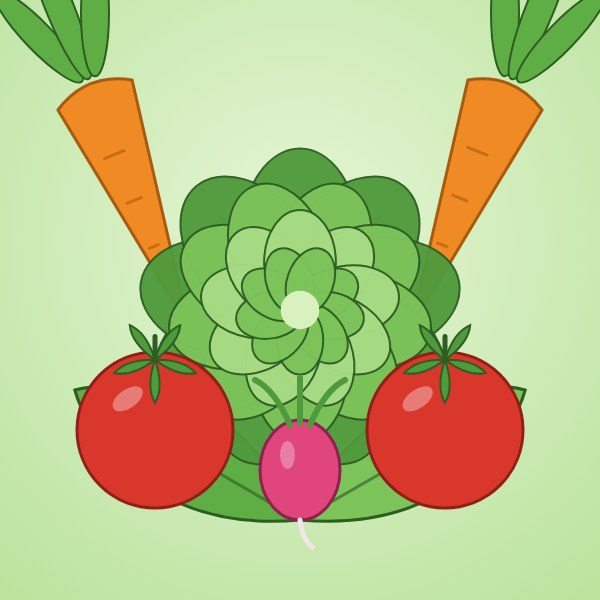
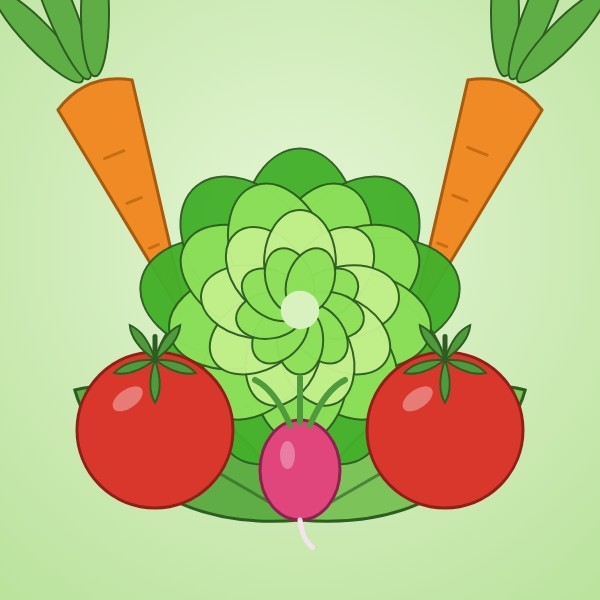
Olericultura: cores mais alegres e imagens novas
Claude-Session: https://claude.ai/code/session_013WiFmUDbDBMEuswrCBuu2Y

Changed region(s): [[0.24, 0.3, 0.72, 0.75], [0.57, 0.75, 0.6, 0.78]]

diff --git a/app/templates/index.html b/app/templates/index.html
@@ -11,8 +11,8 @@
 <script src="https://cdn.jsdelivr.net/npm/xlsx@0.18.5/dist/xlsx.full.min.js"></script>
 <style>
   :root{
-    --bg:#f1f8ec; --surf:#ffffff; --ink:#1d2b19; --mut:#5d7056; --linha:#dae8d0; --suave:#f6fbf2;
-    --verde:#4f9a3c; --verde-esc:#2e5d22; --pos:#2e7d4f; --neg:#b3261e;
+    --bg:#f2fae6; --surf:#ffffff; --ink:#1d2b19; --mut:#5d7056; --linha:#dae8d0; --suave:#f6fbf2;
+    --verde:#3fae2a; --verde-esc:#237a1c; --pos:#2e7d4f; --neg:#b3261e;
     --c-receita:#1b7f5c; --c-venda:#2b59a8; --c-prod:#7a5ba6; --c-media:#0b7a80; --c-mat:#c9730a; --c-mvenda:#a23b72; --c-neutro:#5d7056; --c-desp:#c0392b;
   }
   *{box-sizing:border-box}
@@ -20,8 +20,8 @@
   body{margin:0;font:15px/1.45 'IBM Plex Sans',system-ui,Segoe UI,Arial,sans-serif;background:var(--bg);color:var(--ink);font-variant-numeric:tabular-nums}
   :focus-visible{outline:3px solid #f0b429;outline-offset:2px;border-radius:6px}
 
-  .faixa{position:relative;overflow:hidden;background:linear-gradient(90deg,var(--verde-esc),var(--verde));color:#fff;padding:16px 30px;display:flex;align-items:center;gap:18px;min-height:96px}
-  .faixa::before{content:"";opacity:.75;position:absolute;top:0;right:0;bottom:0;width:60%;-webkit-mask-image:linear-gradient(90deg,transparent,#000 30%);mask-image:linear-gradient(90deg,transparent,#000 30%);background:url(/img/banner_oleri.jpg) no-repeat right center/auto 100%}
+  .faixa{position:relative;overflow:hidden;background:linear-gradient(90deg,#14802c,#34a82c 45%,#76cf3a);color:#fff;padding:16px 30px;display:flex;align-items:center;gap:18px;min-height:96px}
+  .faixa::before{content:"";opacity:1;position:absolute;top:0;right:0;bottom:0;width:60%;-webkit-mask-image:linear-gradient(90deg,transparent,#000 30%);mask-image:linear-gradient(90deg,transparent,#000 30%);background:url(/img/banner_oleri.jpg) no-repeat right center/auto 100%}
   .faixa::after{content:"";position:absolute;top:0;right:0;bottom:0;width:30%;background:linear-gradient(270deg,rgba(46,93,34,.9),rgba(46,93,34,0))}
   .faixa>*{position:relative;z-index:1}
   .faixa .sep{width:1px;align-self:stretch;margin:6px 0;background:rgba(255,255,255,.35)}
@@ -151,7 +151,7 @@
   @media(min-width:1900px){.graficos{grid-template-columns:repeat(3,minmax(0,1fr))}}
 
   /* ===== visual v2: cartões, gráficos e abas no estilo do modelo ===== */
-  :root{--bg:#f1f8ec;--sombra:0 2px 12px rgba(46,93,34,.07)}
+  :root{--bg:#f2fae6;--sombra:0 2px 12px rgba(46,93,34,.07)}
   .filtros,.kpi,.graf,.destaques,.detalhe,.ficha{border-color:#d9e7cf;box-shadow:var(--sombra)}
   .filtros{border-radius:14px}
   .btn{background:var(--verde-esc);box-shadow:0 2px 6px rgba(46,93,34,.3);border-radius:9px;padding:12px 20px}
